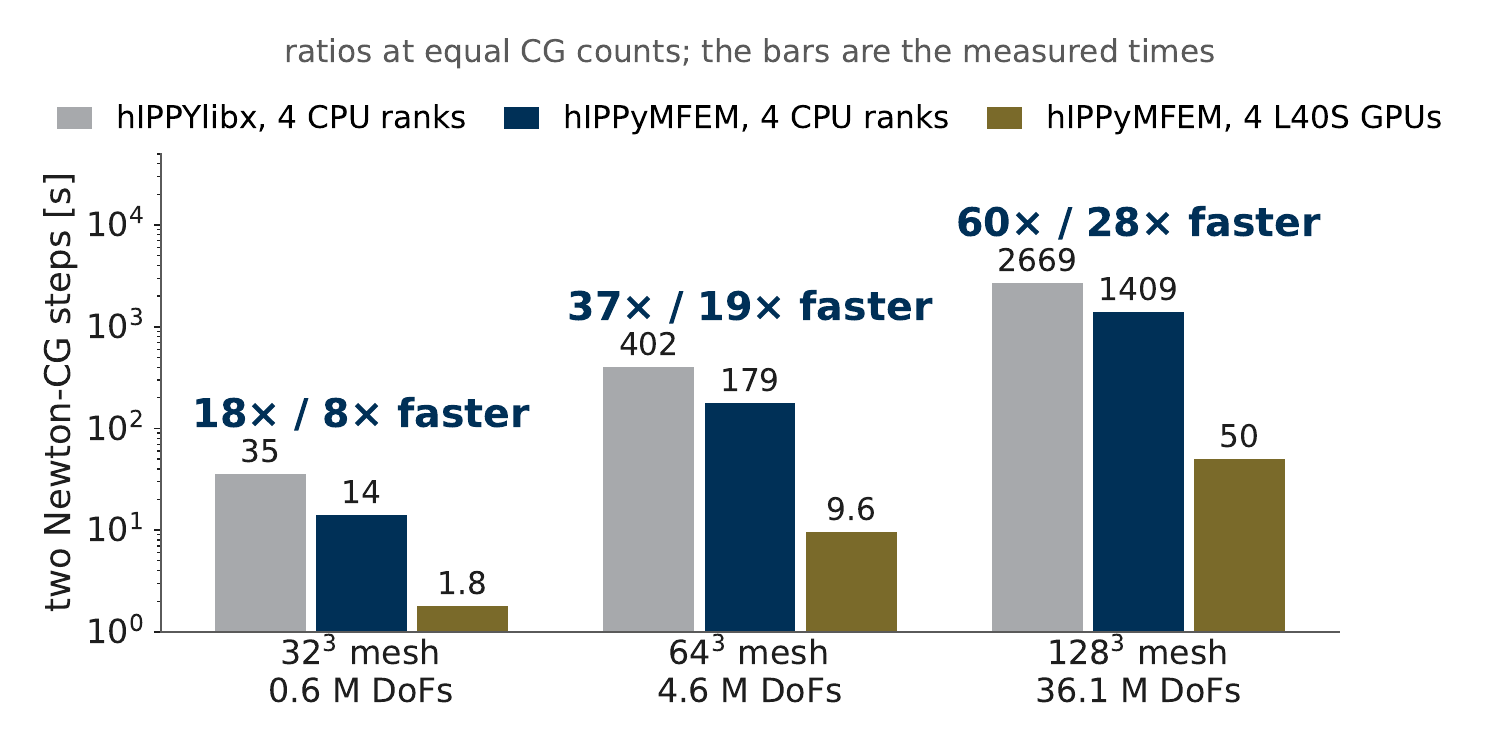
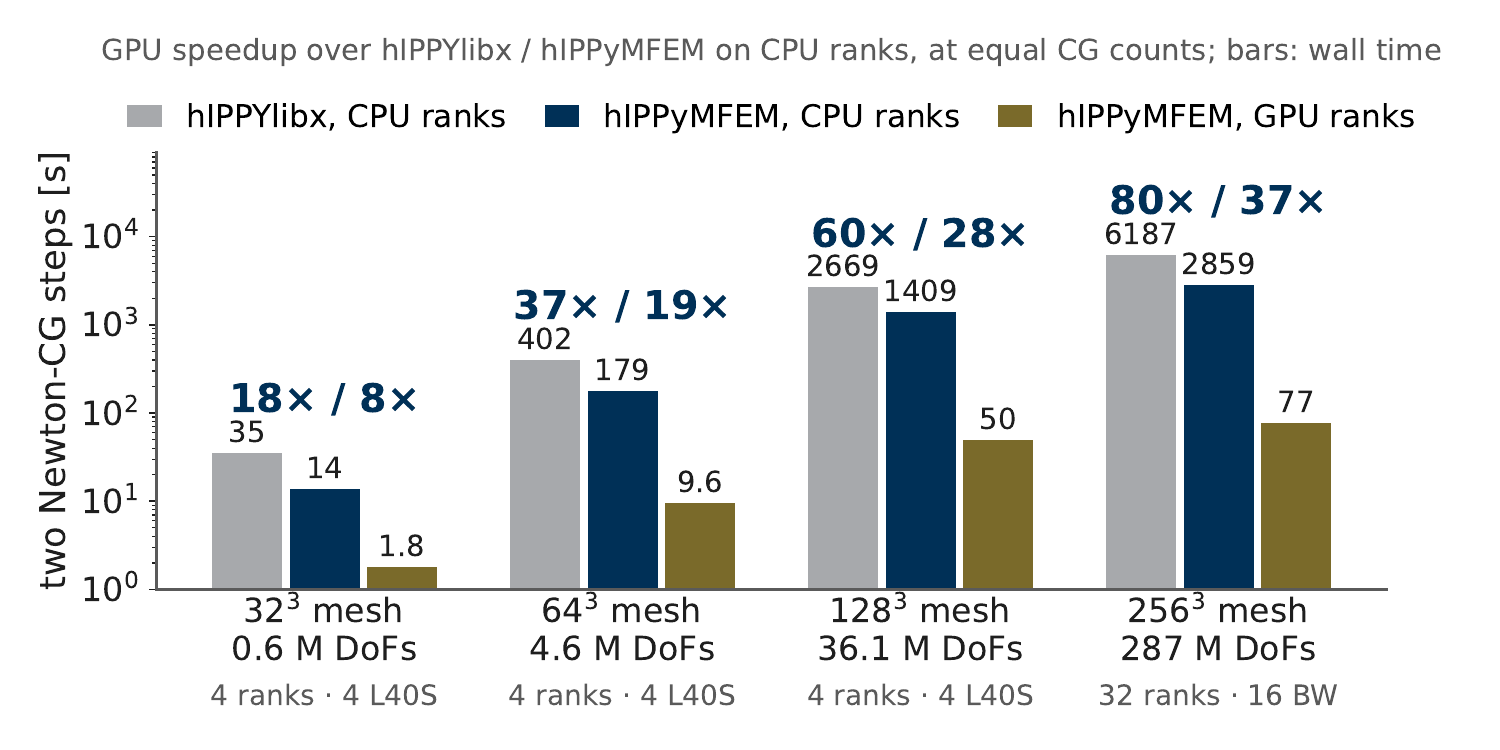
Add the 256^3 comparison on 32 ranks to the README figure and the guides
Two Newton-CG steps at 287 M unknowns, rank for rank: 77 s on 32 GPU ranks (the
48 GB MIG slices of 16 RTX PRO 6000 Blackwell cards) against 2859 s for hIPPyMFEM
and 6187 s for hIPPYlibx on 32 CPU cores, all three at 9 CG iterations, so 37x
and 80x. The README figure gains the fourth group and says which hardware each
group ran on; the GPU guide gains the per-stage table, and the performance guide
the numbers.

Changed region(s): [[0.0307, 0.2147, 0.92, 0.9507], [0.0307, 0.1227, 0.9813, 0.184], [0.0613, 0.0307, 0.9813, 0.092]]

diff --git a/README.md b/README.md
@@ -40,7 +40,7 @@ Newton solve, a table lookup, and its derivatives stay exact.
 | | |
 |---|---|
 | **One function, every derivative** | The residual, Jacobian, adjoint and every Hessian block come from one JAX function by automatic differentiation; no derivative is coded by hand. The blocks agree with MFEM's own integrators to 10⁻¹⁵. |
-| **54 times faster than hIPPYlibx** | Two Newton-CG steps at 36 million unknowns take 50 s on four L40S GPUs, against 2669 s for [hIPPYlibx](https://github.com/hIPPyMFEM/hippylibx) on four CPU cores of the same node (60 times at equal CG counts) and 1409 s for hIPPyMFEM itself on those cores. |
+| **54 times faster than hIPPYlibx** | Two Newton-CG steps at 36 million unknowns take 50 s on four L40S GPUs, against 2669 s for [hIPPYlibx](https://github.com/hIPPyMFEM/hippylibx) on four CPU cores of the same node (60 times at equal CG counts) and 1409 s for hIPPyMFEM itself on those cores. At 287 million unknowns, 32 GPU ranks take 77 s against 6187 s on 32 CPU cores: 80 times. |
 | **A billion unknowns** | One Newton-CG step at 1.09 billion unknowns (400³ P2 hexahedra) takes 197 s on 24 RTX PRO 6000 Blackwell GPUs, JAX compilation included. |
 | **The whole Bayesian workflow on GPUs** | MAP point, low-rank Laplace posterior, samples and pointwise variance for a 36-million-unknown problem in 19 minutes on four GPUs. |
 | **Cross-validated against hIPPYlibx** | On a shared discrete problem the misfit Hessian's spectrum agrees with hIPPYlibx's to 3.7 × 10⁻¹³ and the MAP cost to 1.3 × 10⁻¹⁴. |
@@ -48,13 +48,14 @@ Newton solve, a table lookup, and its derivatives stay exact.
 
 ## How it compares
 
-<p align="center"><img src="docs/images/speedup.png" alt="Two Newton-CG steps at three mesh sizes: hIPPYlibx and hIPPyMFEM on four CPU ranks, and hIPPyMFEM on four L40S GPUs" width="760"></p>
+<p align="center"><img src="docs/images/speedup.png" alt="Two Newton-CG steps at four mesh sizes: hIPPYlibx and hIPPyMFEM on CPU ranks, and hIPPyMFEM on as many GPU ranks, 18 to 80 times faster than hIPPYlibx" width="760"></p>
 
-*Two Newton-CG steps of a P2 hexahedral benchmark on one node (four L40S GPUs, two AMD EPYC 9334
-CPUs), with the same PDE, prior and BoomerAMG settings in both libraries
-([hIPPYlibx](https://github.com/hIPPyMFEM/hippylibx) is hIPPYlib on FEniCSx). The bars are measured
-wall times; the ratios charge each CPU run the GPU run's CG count, since the two libraries
-stop CG at different iterations.*
+*Two Newton-CG steps of a P2 hexahedral benchmark, rank for rank, with the same PDE, prior and
+BoomerAMG settings in both libraries ([hIPPYlibx](https://github.com/hIPPyMFEM/hippylibx) is
+hIPPYlib on FEniCSx). Up to 128³: four CPU cores against the four L40S GPUs of one node (two
+AMD EPYC 9334). At 256³: 32 cores of that node against 32 GPU ranks, the 48 GB MIG slices of
+16 RTX PRO 6000 Blackwell (BW) cards. The bars are measured wall times; the ratios charge each
+CPU run the GPU run's CG count, since the two libraries stop CG at different iterations.*
 
 ## How it scales
 

diff --git a/docs/source/guide/gpu.rst b/docs/source/guide/gpu.rst
@@ -107,16 +107,30 @@ hIPPYlibx, 4 ranks, host       29.4 s         8.7 s                  13.8 s     
 hIPPYlibx, 4 ranks, host       241.0 s        71.4 s                 140.7 s                2669.0 s
 =============================  =============  =====================  =====================  ================
 
+==============================  =============  =====================  =====================  ================
+256\ :sup:`3`, 287 M unknowns   forward solve  Hessian blocks (warm)  reduced-Hessian apply  two Newton steps
+==============================  =============  =====================  =====================  ================
+32 Blackwell slices (16 cards)  8.5 s          4.2 s                  2.6 s                  **77.4 s**
+32 ranks, all host              not timed      not timed              not timed              2859.0 s
+hIPPYlibx, 32 ranks, host       423.9 s        102.4 s                378.9 s                6187.2 s
+==============================  =============  =====================  =====================  ================
+
+The 256\ :sup:`3` rows are rank for rank as well, on 32 ranks: the GPU ranks are 48 GB MIG
+slices of 16 RTX PRO 6000 Blackwell cards of a cluster, the host ranks 32 cores of the node
+above, one core per rank (with two cores per rank the hIPPyMFEM host run takes 2456 s).
+
 Four cards against four host ranks of the same library are 19x at 64\ :sup:`3` and 28x at
-128\ :sup:`3`, with the same cost functional to eight digits and the same CG counts.  The
+128\ :sup:`3`, and 32 slices against 32 host ranks 37x at 256\ :sup:`3`, with the same cost
+functional to eight digits and the same CG counts.  The
 hIPPYlibx rows are the same problem (mesh, spaces, PDE, data model, prior, Newton-CG
 settings) solved by `hIPPYlibx <https://github.com/hIPPyMFEM/hippylibx>`_ on dolfinx 0.10,
 with PETSc's CG and BoomerAMG given the same BoomerAMG options.  The two libraries draw
 different random data, so their CG counts differ (11 and 6 against 8): four cards are 42x
 and 54x faster than hIPPYlibx as measured, and 37x and 60x when it is charged the same CG
-counts.
-The host rows use four of the node's 64 cores, the same rank count as the four-card rows,
-so they are a device swap at a fixed rank count and not the machine's best host time.
+counts.  At 256\ :sup:`3` every run takes 9 CG iterations, and the 32 slices are 80x faster.
+The host rows use four of the node's 64 cores (32 at 256\ :sup:`3`), the same rank count as
+the GPU rows, so they are a device swap at a fixed rank count and not the machine's best
+host time.
 
 The first linearization point of a run pays the sparsity patterns and JAX's compilation
 once (5 s at 64\ :sup:`3` on one card, 24 s at 128\ :sup:`3` on two); a Newton run pays

diff --git a/docs/source/guide/performance.rst b/docs/source/guide/performance.rst
@@ -143,7 +143,9 @@ one card is worth 28 ranks' worth of that, four cards 19 times four ranks.  At
 host 1409 s on four ranks (28x), with the same J and CG count.
 `hIPPYlibx <https://github.com/hIPPyMFEM/hippylibx>`_ on the same host, with the same
 BoomerAMG settings, takes 402.5 s at 64\ :sup:`3` and 2669 s at 128\ :sup:`3`
-(``benchmarks/bench_newton_hippylibx.py``); :doc:`gpu` has the per-stage table.
+(``benchmarks/bench_newton_hippylibx.py``).  At 256\ :sup:`3` (287 M unknowns) on 32 ranks,
+32 Blackwell slices take 77 s against 2859 s for the host and 6187 s for hIPPYlibx on 32
+cores (37x and 80x), all at 9 CG iterations; :doc:`gpu` has the per-stage tables.
 
 .. _hessian-blocks:
 
